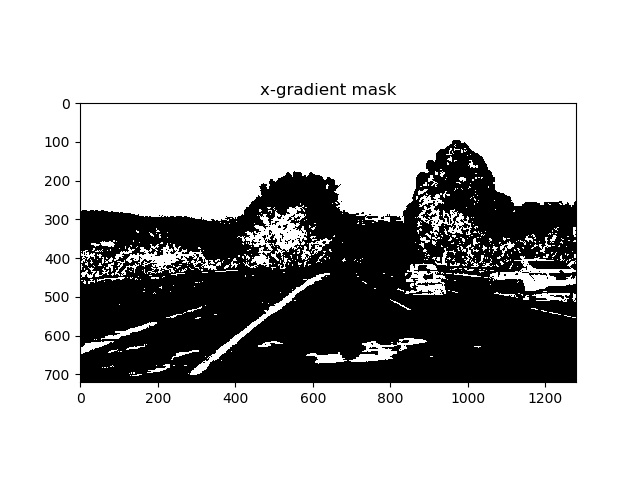
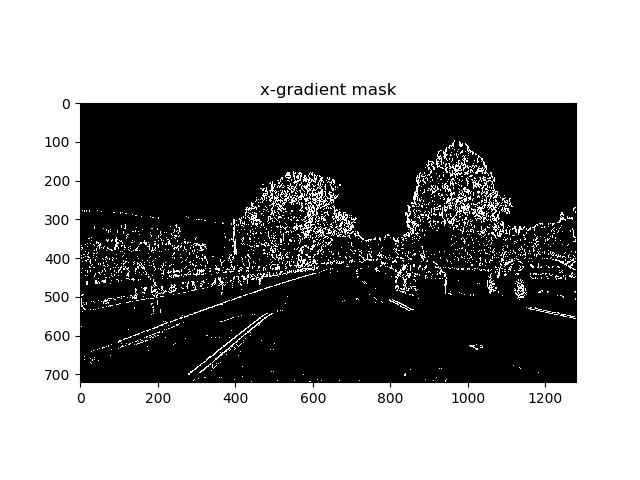
Fixed to dump the correct gradient mask

diff --git a/modules/laneProcPipe.py b/modules/laneProcPipe.py
@@ -326,6 +326,7 @@ class laneFinder(object):
                     top = 1- 1./32, bottom = 1./32 , wspace=1./32 )
                 fig.savefig(self.outPath + '/warped_' + os.path.basename(file))
                 return
+        
         # dump pipeline intermediate results
         # step 1: camera calibration dump undistortion results
         imgs = [ mpimg.imread('camera_cal/calibration1.jpg'), self.imread(fn)]
@@ -350,33 +351,43 @@ class laneFinder(object):
         plt.imshow(color_mask*255, cmap = 'gray')
         plt.title('color mask')
         fig.savefig(self.outPath + '/colorMask_' + os.path.basename(fn))
+        
         #step 3: extract x-gradient feature
         grad_mask = self.extract_gradient(undist)
         fig = plt.figure()
         plt.imshow(color_mask*255, cmap = 'gray')
         plt.title('x-gradient mask')
         fig.savefig(self.outPath + '/xGradMask_' + os.path.basename(fn))
+        
         # step 4: combine color + gradient  
         combo = (color_mask | grad_mask)
         fig = plt.figure()
         plt.imshow(np.dstack((np.zeros_like(color_mask), grad_mask, color_mask))*255)
         plt.title('Combined color + gradient mask') 
         fig.savefig(self.outPath + '/xGradColorMask_' + os.path.basename(fn))
+        
         # step 5: apply perspective transformation
         binary_warped = self.warp_perspective(combo)
         fig = plt.figure()
         plt.imshow(binary_warped*255)
         plt.title('binary warped mask') 
         fig.savefig(self.outPath + '/binWarped_' + os.path.basename(fn))
+        
         # step 6: find lines of a lane from polynomial fit
+        fig = plt.figure(1)
+        fig.clf()
         left_fit, right_fit = self.find_polylanes(binary_warped, 1)
         plt.title('Windowed polynomial search') 
         fig.savefig(self.outPath + '/polyfit_' + os.path.basename(fn))
+        
         # step 7: refine polynomial fit with the guidanc of the previous polynomial fit
+        fig = plt.figure(2)
+        fig.clf()
         left_fitx, right_fitx, left_fit_refined, right_fit_refined = \
-            self.refine_polylanes(binary_warped, left_fit, right_fit, 1)
+            self.refine_polylanes(binary_warped, left_fit, right_fit, 2)
         plt.title('Refined polynomial fit') 
         fig.savefig(self.outPath + '/refinePoly_' + os.path.basename(fn))
+        
         # step 8: generate overlay image from unwarping the painted lanes
         overlay = self.paintBetweenLines(np.zeros_like(undist), left_fitx, right_fitx, (0,255,0))
         unwarped_overlay = self.unwarp_perspective(overlay)
@@ -384,9 +395,11 @@ class laneFinder(object):
         plt.imshow(unwarped_overlay)
         plt.title('Unwarped lane zone') 
         fig.savefig(self.outPath + '/zone_' + os.path.basename(fn))
+        
         # step 9: compute output varaibles in curvature/center deviation
         xdev = self.measure_center_deviation(left_fit, right_fit)
         curvature = self.measure_curvature_real(left_fit, right_fit)
+        
         # step 10: overlay painted lanes and output text on top of the imput image
         final = self.draw_overlay(undist,unwarped_overlay, curvature, xdev)
         fig = plt.figure()
